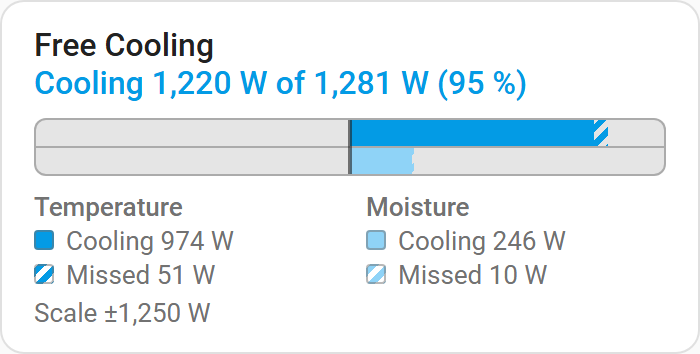
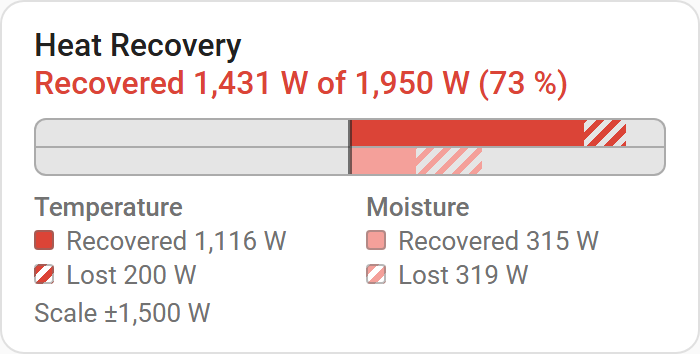
Capture the recovery bar in heating mode (task 6.1)

diff --git a/openspec/changes/v0-2-card-improvements/tasks.md b/openspec/changes/v0-2-card-improvements/tasks.md
@@ -101,8 +101,8 @@
   and add a card picker screenshot taken by hand on the live installation; verify every image the README links
   exists and shows the v0.2 behaviour
   - Progress: `scripts/capture.mjs` takes the diagram (HRV light, dark, compact, GIF, ERV) and both bar images from
-    the preview page (92fb481). Still to do: switch the recovery bar capture from the "bypass 100 % (night cooling)"
-    scenario to a heating one, and retake `editor.png` and the card picker screenshot on the live installation after
+    the preview page (92fb481). The recovery bar is now captured in heating mode (the "heating (winter)" scenario).
+    Still to do: retake `editor.png` and the card picker screenshot on the live installation after
     6.3 deploys the v0.2 bundle.
 - [ ] 6.2 Set the version to `0.2.0` in `package.json`, run `npm run release` and commit `dist/`; verify
   `npm run release` and `npm run check` pass from a clean checkout and produce the committed bundle

diff --git a/README.md b/README.md
@@ -244,7 +244,7 @@ and lost power and the bar's scale; the moisture recovery rate in g/h is on the 
 shown in the visual editor when its "Advanced settings" switch is on. A sensor that is unavailable or reports a unit
 the card does not know (see the types below) makes the bar show "n/a".
 
-![Recovery balance card during free cooling](docs/images/recovery-bar.png)
+![Recovery balance card while heating in winter](docs/images/recovery-bar.png)
 
 | Name | Type | Default | Advanced | Description |
 |---|---|---|---|---|
